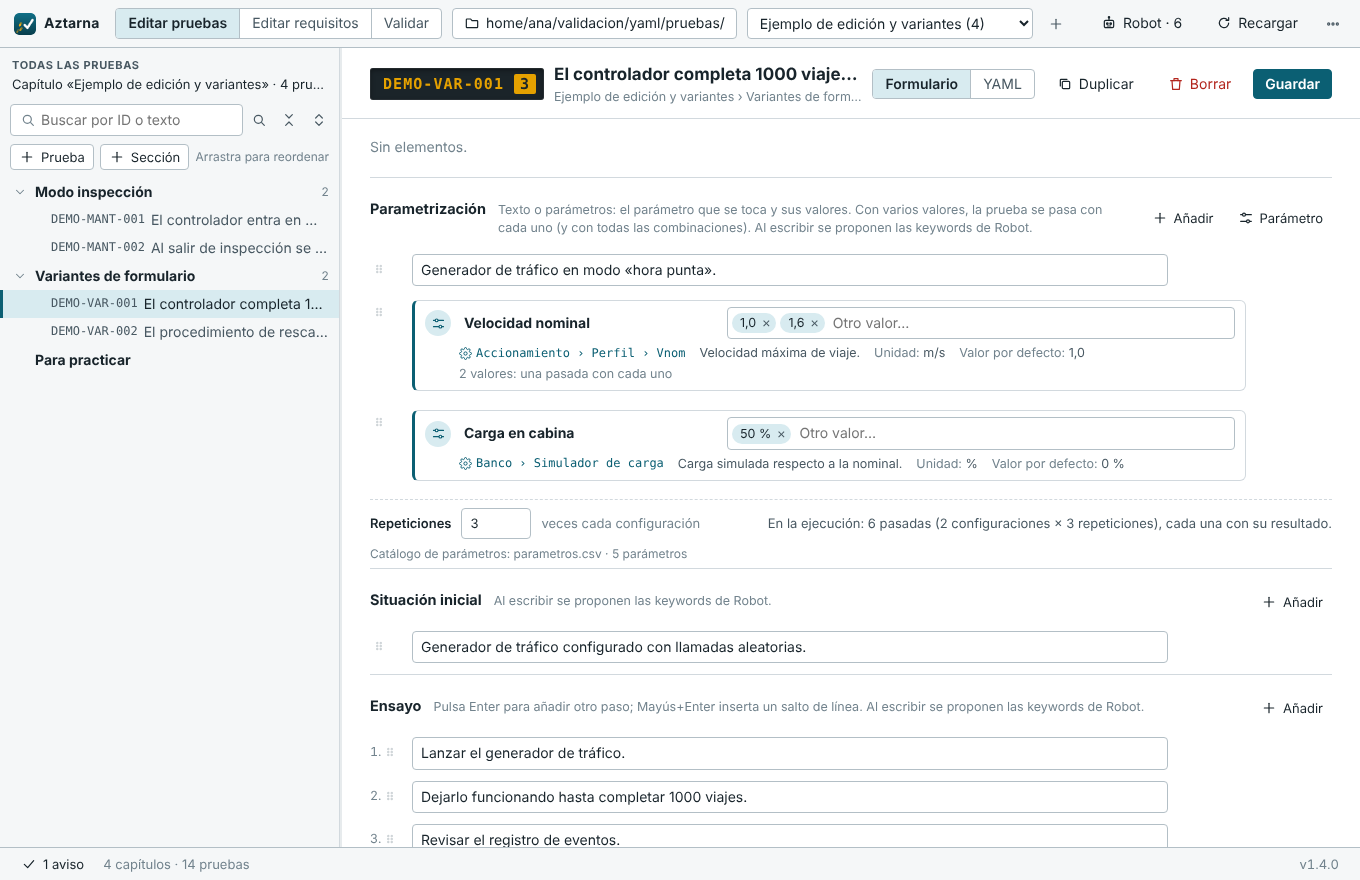
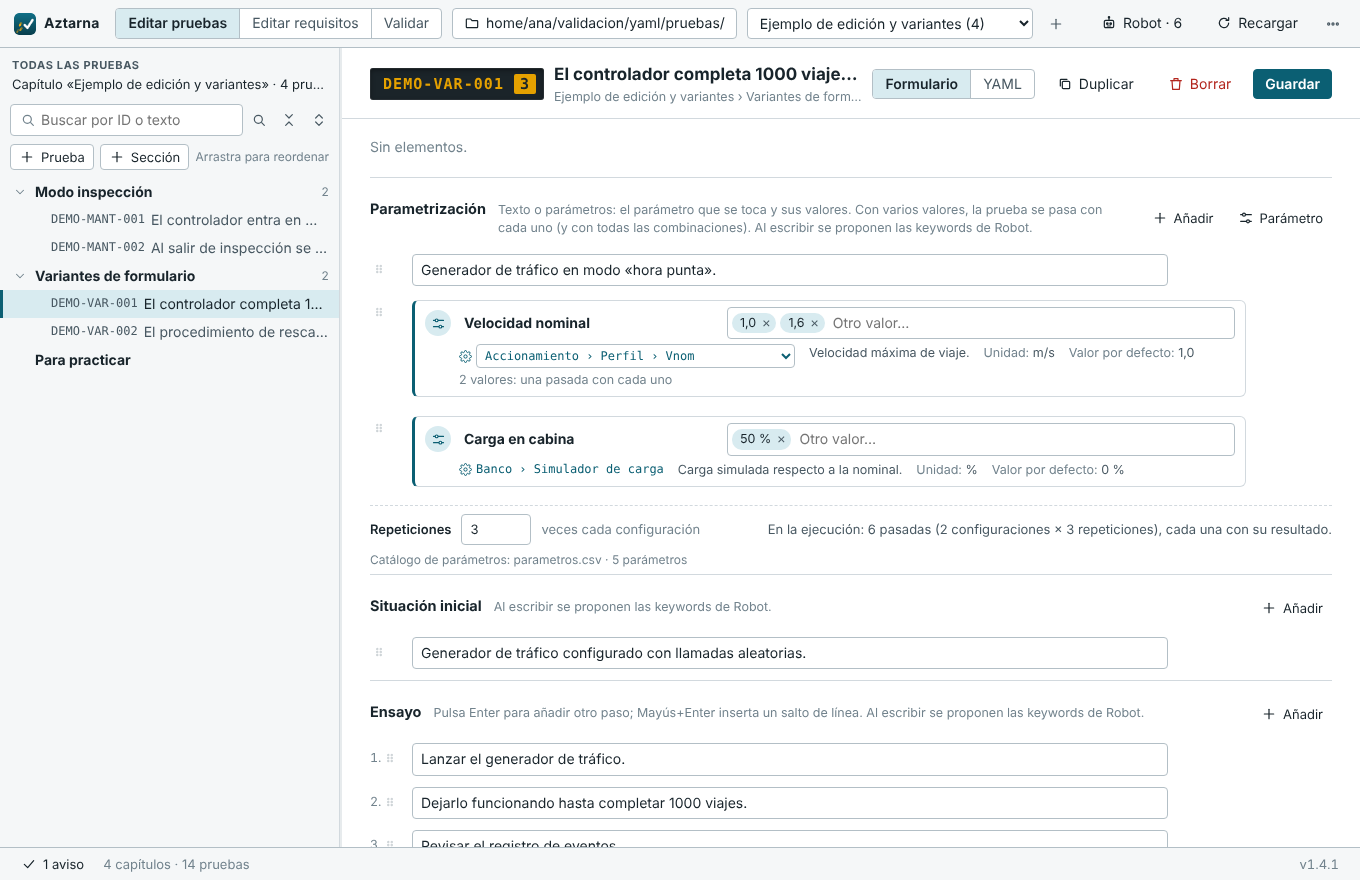
Parámetros con varias ubicaciones: elegir dónde se toca en cada prueba (1.4.1)
En el catálogo, varias ubicaciones separadas por «;» (o en líneas) o en
varias columnas de ubicación. En la prueba, un desplegable elige la de esa
prueba (clave «ubicacion» del parámetro); sin elegir, la ficha enseña todas.
La elegida sale en el Word («**Parámetro** (ubicación): v1 / v2») y vuelve a
leerse al importarlo; el panel de problemas avisa si ya no está en el
catálogo.

Claude-Session: https://claude.ai/code/session_01J8Tj4AQ5BQ3LtPFJNhaWze

diff --git a/web/js/form.js b/web/js/form.js
@@ -50,7 +50,8 @@ function filaDesde(item) {
   if (item && typeof item === "object" && !Array.isArray(item) && "parametro" in item) {
     // Parámetro de la parametrización: qué se toca y con qué valores (ver app/parametros.py).
     return { texto: "", imagenes: [], nivel: 0, forma: "parametro", extra: {},
-      parametro: String(item.parametro ?? ""), valores: aLista(item.valores).map(String).filter((v) => v.trim()) };
+      parametro: String(item.parametro ?? ""), valores: aLista(item.valores).map(String).filter((v) => v.trim()),
+      ubicacion: String(item.ubicacion ?? "") };
   }
   if (item && typeof item === "object" && !Array.isArray(item) && item.tabla && typeof item.tabla === "object") {
     return { texto: "", imagenes: [], nivel: 0, forma: "tabla", extra: {}, tabla: valoresDeTabla(item.tabla) };
@@ -70,7 +71,9 @@ function filaDesde(item) {
 function filasAPlano(filas) {
   return filas.map((f) => {
     if (f.forma === "tabla") return { tabla: { ...f.tabla.resto, filas: tablaAPlano(f.tabla.filas) } };
-    if (f.forma === "parametro") return { parametro: f.parametro.trim(), valores: [...f.valores] };
+    if (f.forma === "parametro") {
+      return { parametro: f.parametro.trim(), valores: [...f.valores], ...(f.ubicacion.trim() ? { ubicacion: f.ubicacion.trim() } : {}) };
+    }
     const mapa = f.forma === "map" || f.imagenes.length || f.nivel || Object.keys(f.extra).length;
     if (!mapa) return f.texto;
     const o = { texto: f.texto };
@@ -535,11 +538,11 @@ function editorLista(clave, titulo, { numerada = false, ayuda = "", conTablas = 
     const nombre = campoNombreParametro(fila, () => { if (pie) pie.actualizar(); pintar(); });
     const cambiado = () => { tocar(clave); if (pie) pie.actualizar(); };
     const valores = campoFichas(`param-${clave}-${i}`, "Valores", {
-      lista: fila.valores, alCambiar: () => { cambiado(); nota.replaceChildren(...notaParametro(fila)); },
+      lista: fila.valores, alCambiar: () => { cambiado(); nota.replaceChildren(...notaParametro(fila, cambiado)); },
       placeholder: fila.valores.length ? "Otro valor…" : "Valores: escribe uno y pulsa Intro…", completo: false,
       sugerir: () => ayudaParametros().then(() => valoresSugeridos(fila.parametro)),
     });
-    const nota = h("div", { class: "nota-parametro" }, ...notaParametro(fila));
+    const nota = h("div", { class: "nota-parametro" }, ...notaParametro(fila, cambiado));
     const li = h("li", { class: "elemento elemento-parametro" },
       asa,
       h("div", { class: "contenido" }, h("div", { class: "tarjeta-parametro" },
@@ -654,9 +657,13 @@ function valoresSugeridos(nombre) {
 }
 
 /** Lo que dice el catálogo de un parámetro: ubicación en el configurador, descripción, unidad y las demás columnas. */
-function infoCatalogo(cat) {
+function infoCatalogo(cat, elegida = "", { ubicaciones = true } = {}) {
   const partes = [];
-  if (cat.ubicacion) partes.push(h("span", { class: "ubicacion", title: "Dónde se toca en el configurador" }, icon("engranaje"), cat.ubicacion));
+  // La ubicación elegida en la prueba o, si no se eligió, todas las del catálogo.
+  const sitios = elegida ? [elegida] : (cat.ubicaciones || (cat.ubicacion ? [cat.ubicacion] : []));
+  if (ubicaciones) {
+    for (const u of sitios) partes.push(h("span", { class: "ubicacion", title: "Dónde se toca en el configurador" }, icon("engranaje"), u));
+  }
   if (cat.descripcion) partes.push(h("span", { text: cat.descripcion }));
   if (cat.unidad) partes.push(h("span", {}, h("span", { class: "muted", text: "Unidad: " }), cat.unidad));
   // Las demás columnas del catálogo, tal cual («Valor por defecto: 1,0»).
@@ -665,12 +672,27 @@ function infoCatalogo(cat) {
 }
 
 /** Ubicación en el configurador, descripción y avisos del parámetro de una fila. */
-function notaParametro(fila) {
+function notaParametro(fila, alCambiar = null) {
   if (!fila.parametro.trim()) return [h("span", { class: "muted", text: "Escribe el parámetro o elígelo del catálogo." })];
   const cat = delCatalogo(fila.parametro);
   const partes = [];
   if (cat) {
-    partes.push(...infoCatalogo(cat));
+    const sitios = cat.ubicaciones || [];
+    const elegidaVale = !fila.ubicacion || sitios.some((u) => claveNombre(u) === claveNombre(fila.ubicacion));
+    if (sitios.length > 1 || (fila.ubicacion && !elegidaVale)) {
+      // Se toca en varios sitios: dónde en esta prueba (sin elegir, valen todos).
+      const opciones = [...sitios, ...(elegidaVale ? [] : [fila.ubicacion])];
+      partes.push(h("label", { class: "elegir-ubicacion", title: "Dónde se toca el parámetro en esta prueba" }, icon("engranaje"),
+        h("select", {
+          "aria-label": `Dónde se toca ${fila.parametro}`,
+          onchange: (e) => { fila.ubicacion = e.target.value; if (alCambiar) alCambiar(); },
+        }, h("option", { value: "", text: `En cualquiera de sus ${sitios.length} ubicaciones`, selected: !fila.ubicacion }),
+        opciones.map((u) => h("option", { value: u, text: u, selected: claveNombre(u) === claveNombre(fila.ubicacion) })))));
+      if (!elegidaVale) partes.push(h("span", { class: "aviso-parametro", text: "Esa ubicación ya no está en el catálogo" }));
+      partes.push(...infoCatalogo(cat, "", { ubicaciones: false }));
+    } else {
+      partes.push(...infoCatalogo(cat));
+    }
     const fuera = cat.valores.length ? fila.valores.filter((v) => !cat.valores.some((c) => claveNombre(c) === claveNombre(v))) : [];
     if (fuera.length) partes.push(h("span", { class: "aviso-parametro", text: `${fuera.join(", ")}: no ${fuera.length === 1 ? "es un valor" : "son valores"} del catálogo` }));
   } else if (AYUDA_PARAMETROS.catalogo.length) {

diff --git a/web/js/ejecucion.js b/web/js/ejecucion.js
@@ -968,7 +968,7 @@ function listaLectura(items, numerada) {
         h("div", {}, h("strong", { text: `${f.parametro}: ` }), f.valores.flatMap((v, k) => [
           k ? " / " : null, h("span", { class: "valor-param", dataset: { parametro: f.parametro, valor: v }, text: v })]),
           // Lo que dice el catálogo (dónde se toca…): se completa al tenerlo (ver completarInfoParametros).
-          h("div", { class: "info-parametro", dataset: { parametro: f.parametro } })));
+          h("div", { class: "info-parametro", dataset: { parametro: f.parametro, ubicacion: f.ubicacion || "" } })));
     }
     const marca = numerada && !f.nivel ? `${++n}.` : f.nivel ? "–" : "•";
     return h("li", { style: { "--nivel": String(f.nivel) } },
@@ -1031,8 +1031,9 @@ function fichaPrueba(el) {
 /** Debajo de cada parámetro de la ficha, lo que dice de él el catálogo (ubicación, descripción, unidad…). */
 function completarInfoParametros(raiz) {
   for (const el of raiz.querySelectorAll(".info-parametro")) {
-    const cat = delCatalogo(el.dataset.parametro);
-    el.replaceChildren(...(cat ? infoCatalogo(cat) : []));
+    // Dónde se toca: la ubicación elegida en la prueba o, si no se eligió, todas las del catálogo.
+    const cat = delCatalogo(el.dataset.parametro) || { ubicaciones: [], otros: [] };
+    el.replaceChildren(...infoCatalogo(cat, el.dataset.ubicacion || ""));
   }
 }
 

diff --git a/web/css/app.css b/web/css/app.css
@@ -1115,3 +1115,6 @@ dialog.buscar-global input[type=search] { width: 100%; font-size: 15px; padding:
 .config-proyecto { border-top: 1px solid var(--rule); padding-top: 10px; margin-top: 4px; }
 .fila-config { display: flex; align-items: center; gap: 8px; font-size: 13px; }
 .ruta-config { flex: 1; min-width: 0; overflow: hidden; text-overflow: ellipsis; white-space: nowrap; font-family: var(--mono); font-size: 12px; color: var(--ink-2); }
+.elegir-ubicacion { display: inline-flex; align-items: center; gap: 4px; color: var(--accent); }
+.elegir-ubicacion .ico { width: 13px; height: 13px; }
+.elegir-ubicacion select { font: 12px var(--mono); color: var(--accent); padding: 1px 4px; min-height: 0; height: 24px; border-color: var(--rule-strong); max-width: 100%; }

diff --git a/app/parametros.py b/app/parametros.py
@@ -53,8 +53,13 @@ def valores_de(elemento: Any) -> list[str]:
 
 
 def parametros_de(prueba: dict[str, Any]) -> list[dict[str, Any]]:
-    """[{parametro, valores}] de la parametrización de la prueba, en su orden."""
-    return [{"parametro": str(e.get("parametro") or "").strip(), "valores": valores_de(e)}
+    """[{parametro, valores, ubicacion}] de la parametrización de la prueba, en su orden.
+
+    `ubicacion` es dónde se toca el parámetro en esta prueba, elegida entre las
+    del catálogo cuando tiene varias ("" si no se eligió: valen todas).
+    """
+    return [{"parametro": str(e.get("parametro") or "").strip(), "valores": valores_de(e),
+             "ubicacion": str(e.get("ubicacion") or "").strip()}
             for e in prueba.get("parametrizacion") or [] if es_parametro(e)]
 
 
@@ -73,13 +78,18 @@ def texto_parametro(elemento: dict[str, Any]) -> str:
 
 
 def lineas_documento(prueba: dict[str, Any]) -> list[Any]:
-    """La parametrización para el Word: cada parámetro como «**Parámetro:** v1 / v2» y, al final, las repeticiones."""
+    """La parametrización para el Word: cada parámetro como «**Parámetro:** v1 / v2» (con la ubicación
+    elegida, «**Parámetro** (ubicación): v1 / v2») y, al final, las repeticiones."""
     lineas: list[Any] = []
     for elemento in prueba.get("parametrizacion") or []:
         if es_parametro(elemento):
             nombre = str(elemento.get("parametro") or "").strip()
-            valores = valores_de(elemento)
-            lineas.append(f"**{nombre}:** {' / '.join(valores)}" if valores else f"**{nombre}**")
+            valores = " / ".join(valores_de(elemento))
+            ubicacion = str(elemento.get("ubicacion") or "").strip()
+            if ubicacion:
+                lineas.append(f"**{nombre}** ({ubicacion}): {valores}".rstrip())
+            else:
+                lineas.append(f"**{nombre}:** {valores}" if valores else f"**{nombre}**")
         else:
             lineas.append(elemento)
     repeticiones = repeticiones_de(prueba)
@@ -89,6 +99,7 @@ def lineas_documento(prueba: dict[str, Any]) -> list[Any]:
 
 
 _LINEA_PARAMETRO = re.compile(r"^\*\*(?P<nombre>[^*:\n]+?):\*\*[ \t]*(?P<valores>[^\n]*?)\s*$")
+_LINEA_PARAMETRO_UBICACION = re.compile(r"^\*\*(?P<nombre>[^*\n]+?)\*\*[ \t]*\((?P<ubicacion>[^\n]+)\):[ \t]*(?P<valores>[^\n]*?)\s*$")
 
 
 def desde_documento(items: list[Any]) -> tuple[list[Any], int | None]:
@@ -97,6 +108,12 @@ def desde_documento(items: list[Any]) -> tuple[list[Any], int | None]:
     salida: list[Any] = []
     repeticiones = None
     for item in items or []:
+        con_ubicacion = _LINEA_PARAMETRO_UBICACION.match(item) if isinstance(item, str) else None
+        if con_ubicacion:
+            salida.append({"parametro": con_ubicacion["nombre"].strip(),
+                           "valores": [v.strip() for v in con_ubicacion["valores"].split(" / ") if v.strip()],
+                           "ubicacion": con_ubicacion["ubicacion"].strip()})
+            continue
         coincide = _LINEA_PARAMETRO.match(item) if isinstance(item, str) else None
         if not coincide:
             salida.append(item)
@@ -172,12 +189,16 @@ def problemas(prueba: dict[str, Any], catalogo: dict[str, dict[str, Any]] | None
             del_catalogo = catalogo.get(clave)
             if del_catalogo is None:
                 salida.append(("aviso", f"El parámetro «{p['parametro']}» no está en el catálogo de parámetros."))
-            elif del_catalogo["valores"]:
-                admitidos = {clave_nombre(v) for v in del_catalogo["valores"]}
-                fuera = [v for v in p["valores"] if clave_nombre(v) not in admitidos]
-                if fuera:
-                    salida.append(("aviso", f"«{p['parametro']}»: {', '.join(fuera)} no "
-                                            f"{'es un valor' if len(fuera) == 1 else 'son valores'} del catálogo."))
+            else:
+                if del_catalogo["valores"]:
+                    admitidos = {clave_nombre(v) for v in del_catalogo["valores"]}
+                    fuera = [v for v in p["valores"] if clave_nombre(v) not in admitidos]
+                    if fuera:
+                        salida.append(("aviso", f"«{p['parametro']}»: {', '.join(fuera)} no "
+                                                f"{'es un valor' if len(fuera) == 1 else 'son valores'} del catálogo."))
+                ubicaciones = del_catalogo.get("ubicaciones") or []
+                if p["ubicacion"] and ubicaciones and clave_nombre(p["ubicacion"]) not in {clave_nombre(u) for u in ubicaciones}:
+                    salida.append(("aviso", f"«{p['parametro']}»: la ubicación «{p['ubicacion']}» no está en el catálogo."))
     valor = prueba.get("repeticiones")
     if valor not in (None, ""):
         try:
@@ -271,6 +292,20 @@ def _separar_valores(texto: str) -> list[str]:
     return [v.strip() for v in re.split(r"[;\n|]", texto) if v.strip()]
 
 
+def _es_ubicacion(clave: str) -> bool:
+    """Columnas de ubicación: «Ubicación», «Ubicación 2», «Dónde 1»… (puede haber varias)."""
+    return re.fullmatch(r"(?:%s|ubicaciones)\d*" % "|".join(COLUMNAS["ubicacion"]), clave) is not None
+
+
+def _separar_ubicaciones(textos: list[str]) -> list[str]:
+    ubicaciones: list[str] = []
+    for texto in textos:
+        for u in re.split(r"[;\n]", texto):
+            if u.strip() and u.strip() not in ubicaciones:
+                ubicaciones.append(u.strip())
+    return ubicaciones
+
+
 def _columnas(claves: list[str]) -> dict[str, int | None]:
     """Columna de cada dato que se reconoce (por orden de preferencia de sus nombres)."""
     posicion: dict[str, int | None] = {}
@@ -283,14 +318,17 @@ def _columnas(claves: list[str]) -> dict[str, int | None]:
 
 
 def leer_catalogo(ruta: str | Path) -> list[dict[str, Any]]:
-    """Parámetros del catálogo: [{parametro, ubicacion, descripcion, valores, unidad, otros}].
+    """Parámetros del catálogo: [{parametro, ubicaciones, ubicacion, descripcion, valores, unidad, otros}].
 
     La cabecera es la primera fila con una columna «Parámetro» (o, si ninguna la
     tiene, la primera fila con algo, y el parámetro es su primera columna). Las
     demás columnas son opcionales y van en cualquier orden: Ubicación,
     Descripción, Valores (separados por «;» o en líneas) y Unidad se reconocen
     por su nombre; las que tengan otro nombre van en `otros` como
-    [[columna, valor], …], para enseñarlas tal cual.
+    [[columna, valor], …], para enseñarlas tal cual. Un parámetro puede tocarse
+    en varios sitios: varias ubicaciones separadas por «;» (o en líneas) o en
+    varias columnas de ubicación («Ubicación», «Ubicación 2»…); `ubicacion` es
+    la primera.
     """
     ruta = Path(ruta)
     try:
@@ -311,7 +349,8 @@ def leer_catalogo(ruta: str | Path) -> list[dict[str, Any]]:
         primera = next(i for i, c in enumerate(filas[cabecera]) if c.strip())
         claves = [clave_nombre(c) if i != primera else "parametro" for i, c in enumerate(filas[cabecera])]
         posicion = _columnas(claves)
-    reconocidas = {i for i in posicion.values() if i is not None}
+    columnas_ubicacion = [i for i, c in enumerate(claves) if _es_ubicacion(c) and i != posicion.get("parametro")]
+    reconocidas = {i for i in posicion.values() if i is not None} | set(columnas_ubicacion)
     otras = [(i, c.strip()) for i, c in enumerate(filas[cabecera]) if i not in reconocidas and c.strip()]
     catalogo, vistos = [], set()
     for fila in filas[cabecera + 1:]:
@@ -321,7 +360,8 @@ def leer_catalogo(ruta: str | Path) -> list[dict[str, Any]]:
         if not nombre or clave_nombre(nombre) in vistos:
             continue
         vistos.add(clave_nombre(nombre))
-        catalogo.append({"parametro": nombre, "ubicacion": celda(posicion.get("ubicacion")),
+        ubicaciones = _separar_ubicaciones([celda(i) for i in columnas_ubicacion])
+        catalogo.append({"parametro": nombre, "ubicaciones": ubicaciones, "ubicacion": ubicaciones[0] if ubicaciones else "",
                          "descripcion": celda(posicion.get("descripcion")),
                          "valores": _separar_valores(celda(posicion.get("valores"))), "unidad": celda(posicion.get("unidad")),
                          "otros": [[columna, celda(i)] for i, columna in otras if celda(i)]})

diff --git a/tests/test_parametros.py b/tests/test_parametros.py
@@ -73,6 +73,19 @@ class ModeloTests(unittest.TestCase):
                                  {"parametro": "Carga", "valores": ["50 %"]}, "Un **dato:** suelto"])
         self.assertEqual(repeticiones, 4)
 
+    def test_ubicacion_elegida(self):
+        prueba = {"parametrizacion": [{**VELOCIDAD, "ubicacion": "Banco › Velocidad"}]}
+        lineas = parametros.lineas_documento(prueba)
+        self.assertEqual(lineas, ["**Velocidad nominal** (Banco › Velocidad): 0,5 / 1,0 / 1,6"])
+        self.assertEqual(parametros.desde_documento(lineas)[0], prueba["parametrizacion"])
+        catalogo = parametros.indice_catalogo([{"parametro": "Velocidad nominal", "valores": [],
+                                                "ubicaciones": ["Accionamiento › Vnom", "Banco › Velocidad"]}])
+        self.assertEqual(parametros.problemas(prueba, catalogo), [])
+        prueba["parametrizacion"][0]["ubicacion"] = "Otro sitio"
+        self.assertIn("«Otro sitio» no está en el catálogo", parametros.problemas(prueba, catalogo)[0][1])
+        self.assertEqual(clean_test_changes({"parametrizacion": [{"parametro": "V", "valores": ["1"], "ubicacion": " B "}]}),
+                         {"parametrizacion": [{"parametro": "V", "valores": ["1"], "ubicacion": "B"}]})
+
     def test_lineas_para_el_documento(self):
         self.assertEqual(parametros.lineas_documento({"parametrizacion": ["Texto", VELOCIDAD], "repeticiones": 5}),
                          ["Texto", "**Velocidad nominal:** 0,5 / 1,0 / 1,6", "**Repeticiones:** 5"])
@@ -101,7 +114,7 @@ class CatalogoTests(unittest.TestCase):
         hoja.append([None, None, None])
         libro.save(self.tmp / "catalogo.xlsx")
         self.assertEqual(parametros.leer_catalogo(self.tmp / "catalogo.xlsx"),
-                         [{"parametro": "Número de paradas", "ubicacion": "Instalación", "descripcion": "",
+                         [{"parametro": "Número de paradas", "ubicaciones": ["Instalación"], "ubicacion": "Instalación", "descripcion": "",
                            "valores": ["4", "8"], "unidad": "", "otros": []}])
 
     def test_excel_en_otra_hoja_y_con_numeros(self):
@@ -123,6 +136,14 @@ class CatalogoTests(unittest.TestCase):
         with self.assertRaisesRegex(ValueError, "guárdalo como .xlsx"):
             parametros.leer_catalogo(self.tmp / "viejo.xls")
 
+    def test_varias_ubicaciones(self):
+        (self.tmp / "u.csv").write_text('Parámetro;Ubicación;Ubicación 2;Dónde\n'
+                                        'Vnom;"A › B; C";D;\n'
+                                        'Carga;E;;E\n', encoding="utf-8")
+        catalogo = parametros.leer_catalogo(self.tmp / "u.csv")
+        self.assertEqual([(p["ubicaciones"], p["ubicacion"], p["otros"]) for p in catalogo],
+                         [(["A › B", "C", "D"], "A › B", []), (["E"], "E", [])])
+
     def test_otras_columnas_se_conservan_tal_cual(self):
         (self.tmp / "c.csv").write_text("Nombre en el configurador;Parámetro;Valor por defecto;Módulo\n"
                                         "Vnom;Velocidad nominal;1,0;\n", encoding="utf-8")
@@ -133,7 +154,7 @@ class CatalogoTests(unittest.TestCase):
     def test_sin_columna_parametro_vale_la_primera(self):
         (self.tmp / "d.csv").write_text("\nSeñal;Rango\nT_puertas;2..8 s\n", encoding="utf-8")
         self.assertEqual(parametros.leer_catalogo(self.tmp / "d.csv"),
-                         [{"parametro": "T_puertas", "ubicacion": "", "descripcion": "", "valores": [], "unidad": "",
+                         [{"parametro": "T_puertas", "ubicaciones": [], "ubicacion": "", "descripcion": "", "valores": [], "unidad": "",
                            "otros": [["Rango", "2..8 s"]]}])
 
     def test_vacio(self):

diff --git a/app/editor_api.py b/app/editor_api.py
@@ -168,6 +168,8 @@ def _clean_item(item: Any) -> Any:
         valores = list(dict.fromkeys(parametros.valores_de(item)))
         if valores:
             limpio["valores"] = valores
+        if str(item.get("ubicacion") or "").strip():
+            limpio["ubicacion"] = str(item["ubicacion"]).strip()   # dónde se toca, si el catálogo da varias
         return limpio
     if "tabla" in item:
         # Tabla dentro del contexto (historial, parámetros…): se conserva con sus demás claves (motivo).

diff --git a/app/__init__.py b/app/__init__.py
@@ -4,7 +4,7 @@
 # La versión sigue el versionado semántico; cada versión publicada lleva su etiqueta de Git (v0.8.0…)
 # y su entrada en CHANGELOG.md.
 NOMBRE = "Aztarna"
-__version__ = "1.4.0"
+__version__ = "1.4.1"
 
 
 def firma() -> str:

diff --git a/CHANGELOG.md b/CHANGELOG.md
@@ -3,6 +3,20 @@
 Qué trae cada versión. La versión está en `app/__init__.py` (`__version__`) y
 cada versión publicada lleva su etiqueta de Git (`v0.8.0`…).
 
+## 1.4.1
+
+- **Parámetros con varias ubicaciones**: en el catálogo de parámetros, un
+  parámetro que se toca en varios sitios lleva sus ubicaciones separadas por
+  `;` (o en líneas) o en varias columnas de ubicación («Ubicación»,
+  «Ubicación 2»…). En la prueba, un desplegable debajo del parámetro elige
+  dónde se toca en esa prueba; sin elegir, la ficha las enseña todas. La
+  elegida se guarda en la prueba (`ubicacion`), sale en el Word
+  («**Parámetro** (ubicación): v1 / v2», que vuelve a leerse al importarlo) y
+  en la ficha de la prueba al pasarla; el panel de problemas avisa si ya no
+  está en el catálogo.
+- Conviene que todo el equipo se actualice: la 1.4.0 pierde la ubicación
+  elegida si se guarda la prueba con ella.
+
 ## 1.4.0
 
 - **Una prueba, varias pasadas**: la *Parametrización* admite, además de

diff --git a/MANUAL.md b/MANUAL.md
@@ -507,6 +507,12 @@ una fila por parámetro. La única columna obligatoria es la del **Parámetro**
   tienen uso propio: **Ubicación** (o *Dónde*, *Configurador*, *Ruta*: dónde
   está en el configurador), **Descripción**, **Valores** (los admitidos,
   separados por `;` o en líneas; vacía, cualquier valor vale) y **Unidad**;
+- un parámetro que se toca en **varios sitios** lleva sus ubicaciones
+  separadas por `;` (o en líneas) o en varias columnas de ubicación
+  (*Ubicación*, *Ubicación 2*…). En la prueba, un desplegable debajo del
+  parámetro elige dónde se toca en esa prueba; si no se elige, al pasarla se
+  ven todas. La elegida sale también en el Word: «**Velocidad nominal**
+  (Accionamiento › Perfil › Vnom): 1,0 / 1,6»;
 - cualquier otra (*Valor por defecto*, *Nombre en el configurador*,
   *Módulo*…) se enseña tal cual debajo del parámetro, como «Valor por
   defecto: 1,0».
